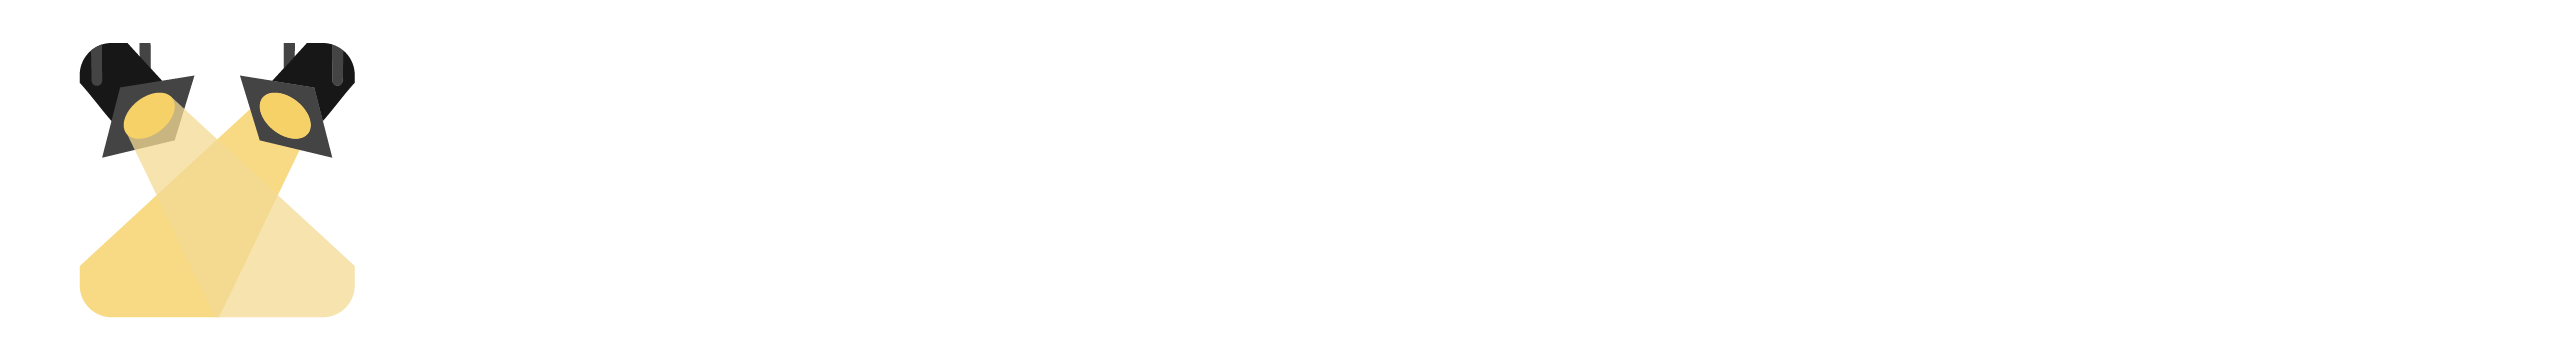
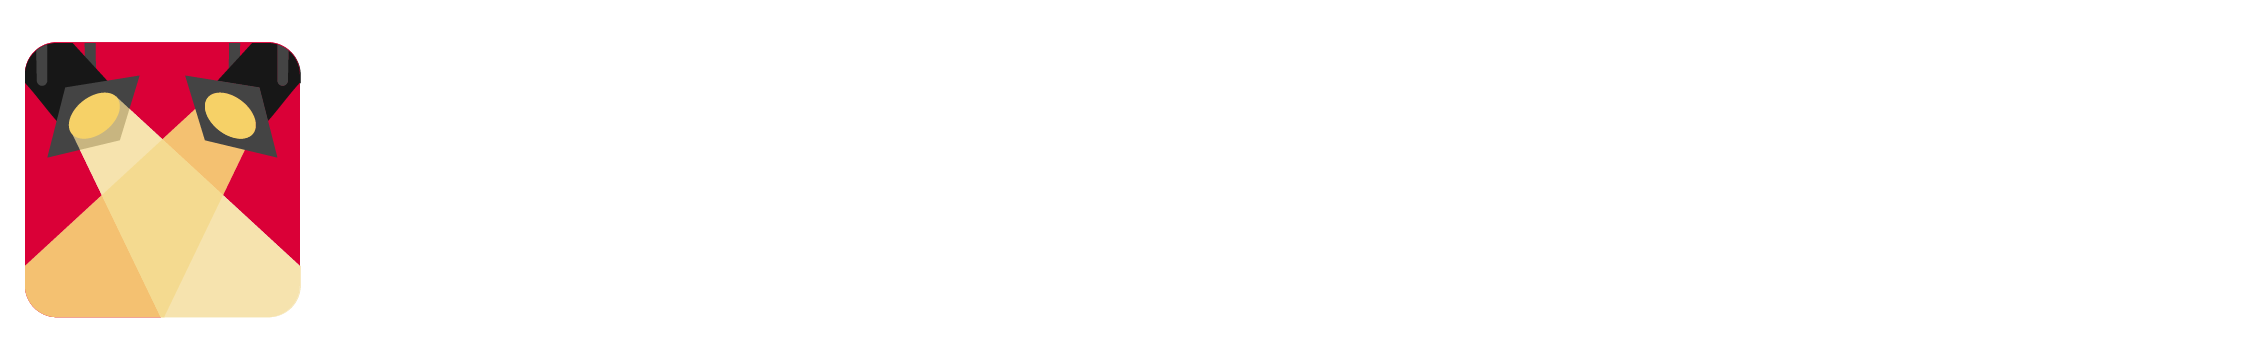
Update meta-data

Changed region(s): [[0.0, 0.1173, 0.1556, 0.9384]]

diff --git a/client/public/index.html b/client/public/index.html
@@ -2,14 +2,14 @@
 <html lang="en">
   <head>
     <meta charset="utf-8" />
-    <link rel="icon" href="%PUBLIC_URL%/bookdivafavi.png" />
+    <link rel="icon" href="%PUBLIC_URL%/stagelytfavi.png" />
     <meta name="viewport" content="width=device-width, initial-scale=1" />
     <meta name="theme-color" content="#000000" />
     <meta
-      name="description"
-      content="Web site created using create-react-app"
+      name="StageLyt | Your Small Theater CMS | QueerCoded, Inc"
+      content="StageLyt is a software being developed to assist venues, artists, and producers with automation of their admin processes."
     />
-    <link rel="apple-touch-icon" href="%PUBLIC_URL%/logo192.png" />
+    <link rel="apple-touch-icon" href="%PUBLIC_URL%/icononly.png" />
     <!--
       manifest.json provides metadata used when your web app is installed on a
       user's mobile device or desktop. See https://developers.google.com/web/fundamentals/web-app-manifest/
@@ -27,10 +27,10 @@
       work correctly both with client-side routing and a non-root public URL.
       Learn how to configure a non-root public URL by running `npm run build`.
     -->
-    <title>Book, Diva!</title>
+    <title>StageLyt | Your Small Theater CMS | QueerCoded, Inc</title>
   </head>
   <body>
-    <noscript>You need to enable JavaScript to run this app.</noscript>
+    <noscript>You need to enable JavaScript to view StageLyt.</noscript>
     <div id="root"></div>
     <!--
       This HTML file is a template.

diff --git a/client/src/Public/Pages/Page.js b/client/src/Public/Pages/Page.js
@@ -1,17 +1,11 @@
 import React, { useState, useEffect } from 'react'
 import axios from 'axios'
 import { useParams } from 'react-router-dom'
-import ArtistPage from './views/ArtistPage'
-import ProducerPage from './views/ProducerPage'
-import VenueLink from '../Events/components/VenueLink'
-import VenuePage from './views/VenuePage'
 import ImageDisplayS3 from '../Other/components/Images/ImageDisplayS3'
 import { FontAwesomeIcon } from '@fortawesome/react-fontawesome'
 import { faFacebookF, faInstagram, faTiktok, faTwitter } from '@fortawesome/free-brands-svg-icons'
 import Slider from '../Other/components/Slider'
 import EventCard from '../Events/components/EventCard'
-import defaultBanner from '../../Images/default-banner.png'
-import CityLink from './components/CityLink'
 import { faTicketAlt } from '@fortawesome/free-solid-svg-icons'
 import Header from '../Other/components/Header'
 
@@ -20,6 +14,7 @@ const Page = (props) => {
     const [events, setEvents] = useState([])
     const [type, setType] = useState("")
     const { id } = useParams()
+    const defaultBanner =""
 
     useEffect(() => {
         axios.get(`http://localhost:8080/api/pages/${id}`)

diff --git a/client/src/Public/Main/components/NavBar.js b/client/src/Public/Main/components/NavBar.js
@@ -3,7 +3,7 @@ import { store } from '../../../context/StateProvider'
 import { NavLink } from "react-router-dom";
 import { FontAwesomeIcon } from '@fortawesome/react-fontawesome'
 import { faSlidersH, faHome, faPalette, faCity, faTicketAlt, faStar, faSignInAlt, faSignOutAlt, faUpload, faUserCircle, faMapMarkerAlt } from '@fortawesome/free-solid-svg-icons'
-import logo from '../../../Images/bookdivawhite.png'
+import logo from '../../../Images/icononly.png'
 import { GoogleLogin, GoogleLogout } from "react-google-login";
 const NavBar = (props) => {
     const globalStateAndDispatch = useContext(store)

diff --git a/client/src/Public/Main/components/Banner.js b/client/src/Public/Main/components/Banner.js
@@ -1,11 +1,11 @@
 import React from "react";
 import { FontAwesomeIcon } from "@fortawesome/react-fontawesome";
 import { faImage } from "@fortawesome/free-solid-svg-icons";
-import banner1 from '../../../Images/shop.jpg'
-import banner2 from '../../../Images/building.jpg'
-import banner3 from '../../../Images/seating.jpg'
 
 const Banner = (props) => {
+    const banner1 = ""
+    const banner2 = ""
+    const banner3 = ""
     const data = [
         { "name": "ON EVERY STREET CORNER", "status": "active", banner: banner1 },
         { "name": "IN EVERY NEIGHBORHOOD", banner: banner2 },

diff --git a/client/src/Public/Main/Main.js b/client/src/Public/Main/Main.js
@@ -24,7 +24,7 @@ const Main = (props) => {
     }, [])
     return (
         <div className="m-3">
-            <Banner />
+            {/* <Banner /> */}
             <div id="events">
                 {loaded && <Slider title="Upcoming Events" divid="events" childstyle="col-lg-3 col-md-4 col-12" banner={true} bottomBorder={true} icon={faTicketAlt} exState={true}>
                     {events && events.map((event, idx) => {
